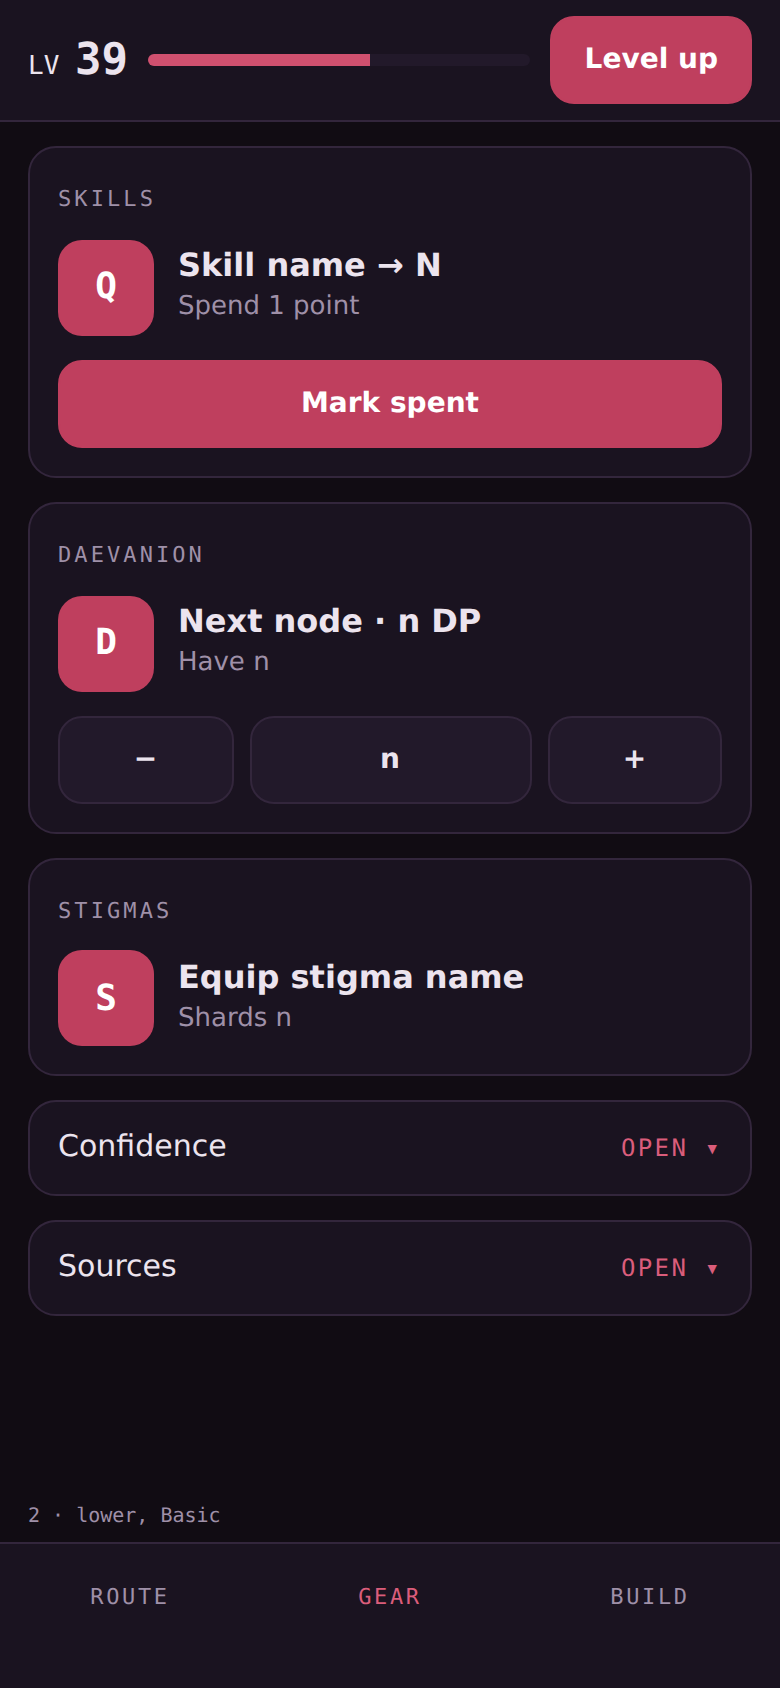
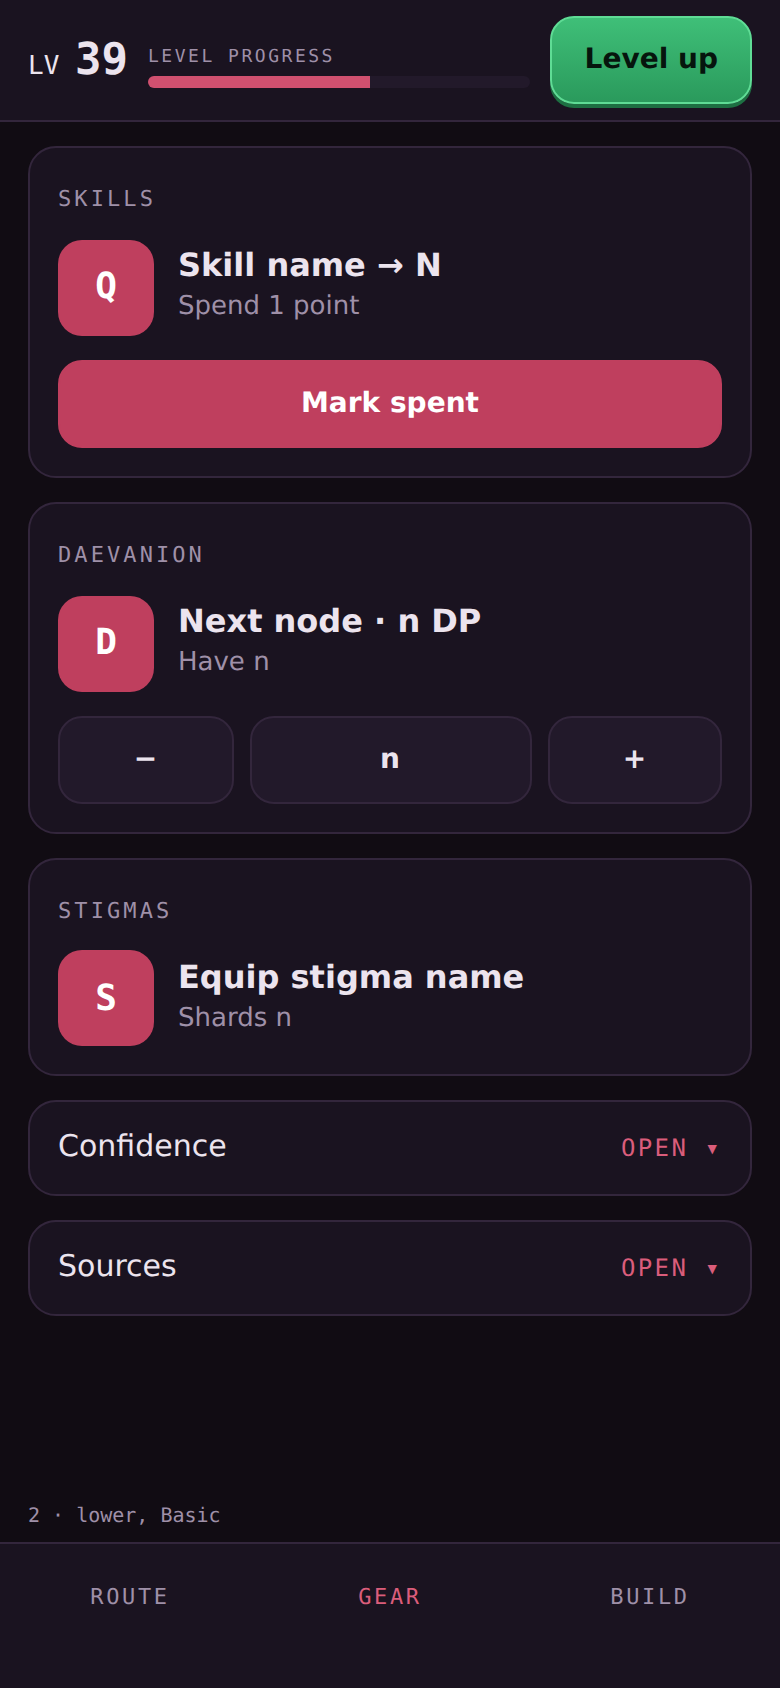
docs: phone layout plan fixes from PR #87 review
DOM order and patch E re-sized as a main.js move; Level up stays green and
lives only in the sticky bar; Progress placed; both-builds statement;
stigma steppers in patch A; patch C trimmed; nits; mockup and after-* shots redone.

Changed region(s): [[0.7077, 0.0, 0.9846, 0.0616], [0.1846, 0.0308, 0.4923, 0.0616]]

diff --git a/docs/design/mockups/phone-layout.html b/docs/design/mockups/phone-layout.html
@@ -12,7 +12,7 @@ body { margin: 0; background: #000; color: var(--fg); font: 15px/1.45 var(--body
 .pad { padding: 0 14px; }
 .mono { font: 500 11px var(--mono); letter-spacing: .14em; text-transform: uppercase; color: var(--muted); }
 h1 { font: 400 22px var(--display); margin: 0; letter-spacing: .04em; }
-/* sticky bar: the level is always in reach (replaces scrolling to the top for -/+ and Level up) */
+/* sticky bar: the level is always in reach (the only Level up on phone widths; Journey's #lvlUpBig is hidden there) */
 .bar { position: sticky; top: 0; z-index: 2; background: var(--panel); border-bottom: 1px solid var(--line); padding: 8px 14px; display: grid; grid-template-columns: auto 1fr auto; gap: 10px; align-items: center; }
 .lv { font: 500 13px var(--mono); }
 .lv b { font-size: 22px; color: var(--fg); }
@@ -20,6 +20,8 @@ h1 { font: 400 22px var(--display); margin: 0; letter-spacing: .04em; }
 .track i { display: block; height: 100%; width: 58%; background: var(--accent); }
 .btn { min-height: 44px; min-width: 44px; border-radius: 12px; border: 1px solid var(--line); background: var(--panel-2); color: var(--fg); font: 600 14px var(--body); padding: 0 16px; display: inline-flex; align-items: center; justify-content: center; }
 .btn.primary { background: var(--accent-fill); border-color: var(--accent-fill); color: #fff; }
+/* Level up = .lvlup-btn, app.css:501 (green gradient, no colour change) */
+.btn.lvup { background: linear-gradient(180deg, #3fbf78, #2a9a5c); border: 1px solid #5fdc95; color: #06150d; font-weight: 700; box-shadow: 0 2px 0 #1d6f42; }
 .seg { display: grid; grid-template-columns: 1fr 1fr; border: 1px solid var(--line); border-radius: 12px; overflow: hidden; margin: 10px 0; }
 .seg .btn { border: 0; border-radius: 0; background: none; color: var(--muted); }
 .seg .on { background: var(--panel-2); color: var(--fg); box-shadow: inset 0 -2px var(--accent); }
@@ -45,20 +47,20 @@ h1 { font: 400 22px var(--display); margin: 0; letter-spacing: .04em; }
 
 <!-- 1. Top of the page: sticky level bar, 44 px mode switch, Next up first -->
 <div class="ph" id="p1"><div class="lbl">1 · top, Basic</div>
-  <div class="bar"><span class="lv">LV <b>39</b></span><span class="track"><i></i></span><button class="btn primary" style="min-height:44px">Level up</button></div>
-  <div class="pad" style="padding-top:12px"><span class="mono">Aion 2 · Asmodian · Assassin</span><h1>Asmodian Assassin Route</h1>
+  <div class="bar"><span class="lv">LV <b>39</b></span><span><span class="mono" style="font-size:9px">Level progress</span><span class="track" style="display:block"><i></i></span></span><button class="btn lvup">Level up</button></div>
+  <div class="pad" style="padding-top:12px"><span class="mono">Aion 2 · Asmodian · Assassin · 1 → 45</span><h1>Asmodian Assassin Route</h1>
     <div class="seg"><span class="btn on">Basic</span><span class="btn">Advanced</span></div></div>
-  <div class="pad"><span class="mono">Next up · 1 of 4</span></div>
   <div class="card first"><div class="row"><span class="num">⛏</span><div><h3>Clear Destruction Archons Armory</h3><p>and others until Lv 40 · 3/10</p></div></div>
-    <div class="actions"><span class="btn">Show</span><span class="btn primary">Mark cleared</span></div></div>
+    <div class="actions"><span class="btn">Show</span></div></div>
   <div class="card"><div class="row"><span class="num" style="background:var(--panel-2);color:var(--muted)">2</span><div><h3>Regional quests</h3><p>Eastern Gribade Highland · 2 open</p></div></div></div>
   <div class="card fold" style="margin-top:12px"><span>Journey · Lv 39 → 40</span><span class="more">Open ▾</span></div>
+  <div class="card fold"><span>Progress</span><span class="more">Open ▾</span></div>
   <div class="card fold"><span>Dungeons &amp; Strongholds</span><span class="more">Open ▾</span></div>
   <div class="tabs"><span class="on">Route</span><span>Gear</span><span>Build</span></div></div>
 
 <!-- 2. Further down: gear cards as uniform folds, 44+ px rows -->
 <div class="ph" id="p2"><div class="lbl">2 · lower, Basic</div>
-  <div class="bar"><span class="lv">LV <b>39</b></span><span class="track"><i></i></span><button class="btn primary">Level up</button></div>
+  <div class="bar"><span class="lv">LV <b>39</b></span><span><span class="mono" style="font-size:9px">Level progress</span><span class="track" style="display:block"><i></i></span></span><button class="btn lvup">Level up</button></div>
   <div class="card"><span class="mono">Skills</span><div class="row" style="margin-top:10px"><span class="num">Q</span><div><h3>Skill name → N</h3><p>Spend 1 point</p></div></div><div class="actions"><span class="btn primary">Mark spent</span></div></div>
   <div class="card"><span class="mono">Daevanion</span><div class="row" style="margin-top:10px"><span class="num">D</span><div><h3>Next node · n DP</h3><p>Have n</p></div></div><div class="actions"><span class="btn">−</span><span class="btn" style="flex:2">n</span><span class="btn">+</span></div></div>
   <div class="card"><span class="mono">Stigmas</span><div class="row" style="margin-top:10px"><span class="num">S</span><div><h3>Equip stigma name</h3><p>Shards n</p></div></div></div>
@@ -68,7 +70,7 @@ h1 { font: 400 22px var(--display); margin: 0; letter-spacing: .04em; }
 
 <!-- 3. Build as a bottom sheet from the tab bar -->
 <div class="ph" id="p3"><div class="lbl">3 · Build sheet</div>
-  <div class="bar"><span class="lv">LV <b>39</b></span><span class="track"><i></i></span><button class="btn primary">Level up</button></div>
+  <div class="bar"><span class="lv">LV <b>39</b></span><span><span class="mono" style="font-size:9px">Level progress</span><span class="track" style="display:block"><i></i></span></span><button class="btn lvup">Level up</button></div>
   <div class="scrim"></div>
   <div class="sheet"><div class="grab"></div><div class="row" style="grid-template-columns:1fr auto"><h3 style="font:400 18px var(--display)">Stat priority</h3><span class="btn">Close</span></div>
     <div class="prio"><span>Stat 1</span><span class="mono">value</span></div>

diff --git a/docs/design/phone-layout.md b/docs/design/phone-layout.md
@@ -9,7 +9,7 @@ The mockup text is placeholder, not game data.
 
 ## 1. Method
 
-- `npm run build` at v0.2.3 (`6c2196c1a203`), served from `dist/` with `scripts/serve.mjs`.
+- `npm run build` at v0.2.3 (commit `2960f77`), served from `dist/` with `scripts/serve.mjs`.
 - Chromium via Playwright, 390×844, DPR 2, `isMobile` + `hasTouch` (so `pointer: coarse` matches).
 - Save: `tests/fixtures/fixture-user-2026-10-14-lv39.json` (the owner's Lv 39 save) with `mode` set to `basic` or `advanced`.
 - Shots: `mockups/phone/before-{basic,advanced}-full.png` plus one per card (`header.top`, Progress, Journey, Dungeons &
@@ -29,9 +29,10 @@ The mockup text is placeholder, not game data.
 | Page height | 3,300 px | 7,102 px |
 | Next up starts at | 2,118 px (2.5 screens) | 3,738 px (4.4 screens) |
 
-`aside.rail` (Progress, Journey, Dungeons & Strongholds, The map, Skills, Daevanion, Stigmas) is stacked before `#main`
-(Next up, Milestones, Route rules), then Confidence and Sources. The thing the user opens the site for is below seven
-cards. Same as P1-1, slightly better than in the 2026-10-13 audit (2,210 / 4,240 px). In Advanced the Journey card alone
+`aside.rail` holds Progress, Journey, Dungeons & Strongholds and The map (`src/index.html:46-116`). `#main` starts with
+`.top-grid` (Skills, Daevanion, Stigmas; `src/index.html:118-170`), and only then comes Next up (`#nowStar`), then
+Milestones and Route rules; Confidence and Sources close the page. The thing the user opens the site for is below
+seven cards in Advanced and six in Basic (The map is hidden by `body.basic`, `app.css:996`). Same as P1-1, slightly better than in the 2026-10-13 audit (2,210 / 4,240 px). In Advanced the Journey card alone
 is 963 px (the current story step with its objectives); it pushes everything else down.
 
 ### 2.2 Tap targets under 44 px
@@ -47,7 +48,8 @@ Counts are elements in the page, 390 px.
 | `.tip` "i" | 17×17 | 4 / 19 | glyph in a fixed box |
 | `a.amap` map pin | 26×26 | 5 / 5 | |
 | Sync fields (`sync0`…) | 52×26 | 0 / 15 | |
-| Level −/+ in Journey | visible buttons about 38 px | Advanced | the probe also lists 6 buttons named "Level down" at 14×18 px; I did not identify which control that is |
+| Level −/+ in Journey | visible buttons about 38 px | Advanced | |
+| Stigma slot steppers (`.st-lvctl`, built at `src/main.js:1479`, Stigmas › Slots) | 14×18 | the 6 "Level down" buttons in the probe | the smallest targets on the page; their `aria-label`s are "Level down" / "Level up", the same names as the real level controls |
 | Basic / Advanced switch | about 25 px tall | 1 | the most-used control on the page |
 | Filter icon and × in Journey | about 20 px | | |
 
@@ -79,32 +81,46 @@ is that re-run plus the `flex-wrap` fix.
 - Basic / Advanced pill sits between the eyebrow and the page title; the title wraps to two lines.
 - Journey (Advanced): Level −/+, slider and Level up are inside the card at the top of the page, so on a long scroll
   the level controls are out of reach. Objectives are a full-width stack of 6+ rows with 20 px checkboxes.
-- Cards are uniform in padding (14 px) and corner radius; that part is already good.
+- Cards are uniform in padding (16 px, `app.css:63`) and corner radius (12 px); that part is already good.
 
 ## 3. Proposal
 
 Tokens: the repo has no `docs/design-system.md` (HANDOFF and ROADMAP refer to it). The tokens are the `:root` block of
-`src/styles/app.css`: `--bg --panel --panel-2 --line --fg --muted --accent --accent-text --accent-fill --good --warn`
-and the three font stacks. The mockup uses only those; it adds no colour.
+`src/styles/app.css`: `--bg --panel --panel-2 --line --fg --muted --accent --accent-soft --accent-text --accent-fill
+--good --warn` and the three font stacks. The mockup uses those, plus the raw Level up greens from `.lvlup-btn`
+(`app.css:501`) and `#fff` / `#000` / `#000a` for text on fills, the page backdrop and the scrim. No new brand colour.
 
-1. **Order: Next up first.** ≤ 860 px: header, (sticky level bar), Next up, Journey (folded in Basic), Milestones,
-   Skills / Daevanion / Stigmas, Dungeons & Strongholds, The map, Route rules, Confidence, Sources. Next up lands at
-   about 400 px instead of 2,118.
-2. **Sticky level bar**: `LV 39`, progress, **Level up** (44 px, `--accent-fill`, as now). Replaces scrolling to Journey.
-   Level −/+ and the slider stay in Journey (Advanced); the intent from CLAUDE.md, that the level changes only through
-   Level up / − / + / slider, is unchanged.
+**Both builds.** Every patch below applies to the site and to the claude.ai artifact build (`dist-artifact`) alike: no
+web-only CSS and no web-only `<head>` dependency. The artifact runs in an iframe without `viewport-fit=cover`, so
+`env(safe-area-inset-bottom)` resolves to 0 there; the tab bar and sheet must look right with that fallback (fixed
+padding, safe-area as an addition only). F and H are checked at 390 px in the artifact build as well as the site build.
+The header (brand row, eyebrow "· 1 → 45") and the footer with "unofficial … not affiliated with or endorsed by NCSoft"
+(`tests/site.js`) are unchanged; the mockup omits them for space.
+
+1. **Order: Next up first.** ≤ 860 px: header, sticky level bar, Next up, Milestones, Journey (folded in Basic),
+   Progress, Skills / Daevanion / Stigmas, Dungeons & Strongholds, The map (Advanced), Route rules, Confidence, Sources.
+   Next up lands at about 400 px instead of 2,118. The Progress card (ring plus Quests / Dungeons / Strongholds rows,
+   overall progress) is kept as is and moves to just after Journey; the bar does not replace it.
+2. **Sticky level bar**: `LV 39`, a track labelled "Level progress" (progress within the current level, not the
+   overall Progress card), and **Level up** (44 px). Level up keeps its current green gradient (`.lvlup-btn`,
+   `app.css:501`); no colour change. On phone widths the button lives in the bar only and Journey's `#lvlUpBig`
+   (`src/index.html:69`) is hidden at that width, so exactly one Level up button is on screen at any time. Level −/+ and
+   the slider stay in Journey (Advanced); the intent from CLAUDE.md, that the level changes only through Level up / − /
+   + / slider, is unchanged.
 3. **44 px targets** on touch: Basic/Advanced switch as two 44 px halves; −/+ steppers 44×44; `.q-inl` and "i" get a
    44 px hit area through the existing `::before { inset: -Npx }` pattern (visual size unchanged); list-row links and
    checkboxes get row-wide labels of at least 44 px; folded cards `min-height: 48px`.
 4. **Next up on phones**: first card full width with the action(s) directly under the text (full-width, 44 px, primary =
-   `--accent-fill`); later cards compact (number tile + title + one line); "1 of N" instead of the nested scroll stack
-   (P1-2).
+   `--accent-fill`; no "Mark cleared" action, Next up has none today); later cards compact (number tile + title + one line); "1 of N" instead of the nested scroll stack
+   (P1-2). In Basic `#nowStar .ns-head` stays hidden (`app.css:1000`), so "1 of N" shows in Advanced only unless the
+   owner wants it in Basic (question below).
 5. **Bottom tab bar** (Route · Gear · Build), 52 px, safe-area padding. Build opens as a bottom sheet with a scrim and
-   grab handle (P2-5; `dvh`, not `vh`), replacing the 19 px side tab with 8.5 px text.
+   grab handle (P2-5; `dvh`, not `vh`), replacing the 19 px side tab. Its text is 11 px under `pointer: coarse` (`app.css:1422`; 8.5 px only with a mouse at
+   ≤ 600 px), so the case is the tab's size and reach, not the type size.
 6. **Folded by default on phones**: Journey (Basic), Dungeons & Strongholds, Confidence, Sources, each a uniform
    48 px summary row ("Open ▾" in `--accent-text`).
 
-Mockup frames (`mockups/phone/after-*.png`, from `phone-layout.html`): `after-top-basic`, `after-lower-basic`,
+Mockup frames (`mockups/phone/after-*.png`, from `phone-layout.html`; Level up is green as in the app): `after-top-basic`, `after-lower-basic`,
 `after-build-sheet`. They are static HTML, not the product; labels and values are placeholders.
 
 ## 4. Patch plan (0.2.6+)
@@ -114,23 +130,29 @@ CSS-only means `src/styles/app.css` (and at most static markup in `src/index.htm
 
 | # | Patch | Files | Serial? | Size | Visible |
 |---|---|---|---|---|---|
-| A | 44 px hit areas on −/+, "i", `.q-inl`, map pins, checkbox rows; Basic/Advanced switch 44 px | CSS | no | S | hit areas no; switch yes |
+| A | 44 px hit areas on −/+, "i", `.q-inl`, map pins, checkbox rows, stigma slot steppers (`.st-lvctl`); Basic/Advanced switch 44 px. The steppers also get distinct `aria-label`s (e.g. "Stigma level down: <name>") at `src/main.js:1479`, a one-line change | CSS + 1 line `main.js` | no | S | hit areas no; switch yes |
 | B | Gap under the area select; locked-row contrast; folded-card `min-height` | CSS | no | S | yes (small) |
-| C | Page-zoom re-run at 195 / 260 / 640 px; `flex-wrap` on `.progress-row`, `.ns-head` if it fails | CSS (+ test) | no | S | yes |
+| C | Re-run page zoom at 195 / 640 px and fix what fails. `flex-wrap` on `.progress-row` (`app.css:71`) and `.ns-head` already exists, and `tests/a11y.js` §8 already asserts no sideways scroll at 260 px; only the 195 / 640 px cases are open | CSS (+ test) | no | S | yes |
 | D | Route rules card home (F11, ROADMAP 0.2.6) | `src/index.html` markup + CSS | no, unless it needs JS to place it | S | yes, owner |
-| E | Card order on phones: Next up first | CSS `order` with `display: contents` on the rail, or a JS move | CSS version no; JS version **`src/main.js`** | M | yes, owner |
-| F | Sticky level bar | `src/index.html` + CSS; **`src/main.js`** if the bar needs its own live level | **yes** | M | yes, owner |
+| E | Card order on phones: Next up first. Skills / Daevanion / Stigmas sit in `#main > .top-grid` and Next up comes after them, while the rail is a separate landmark. CSS `order` would need `display: contents` on `aside.rail`, `main#main` and `.top-grid` together, which flattens both landmarks (why the audit chose a JS move). So: a **`src/main.js`** move | **`src/main.js`** + CSS | **yes**, after 0.3 | M–L | yes, owner |
+| F | Sticky level bar; hides `#lvlUpBig` at phone widths; own live level | `src/index.html` + CSS + **`src/main.js`** | **yes** | M | yes, owner |
 | G | Next up "1 of N" pager and compact later cards | **`src/main.js`** (`renderNow`) | **yes**, after 0.3 | L | yes, owner |
 | H | Bottom tab bar and Build bottom sheet | **`src/main.js`** (drawer code) + CSS | **yes** | M | yes, owner |
 
-Order: A, B, C, D ship as 0.2.6 (all CSS-only). E can follow if done in CSS (needs a check that `display: contents` keeps
-the landmark and tab order; the audit preferred a JS move for that reason). F, G, H touch `src/main.js`
-and the card code that 0.3 rewires, so they wait for 0.3 and then go one at a time in the order F, G, H, each rebased on
-the previous one. Tests: A–E change 390 px layout expectations in `regress` / `e1` (the audit noted this); the
-golden master is unaffected. Run `mig1`, `mig2`, `journey` only for patches that touch `main.js` (F–H).
+Order: B, C, D ship as 0.2.6 (CSS-only), and A with them apart from its one-line `aria-label` change in `main.js`. E, F,
+G, H touch `src/main.js` and the card code that 0.3 rewires, so they wait for 0.3 and then go one at a time in the
+order E, F, G, H, each rebased on the previous one. Tests: A–E change 390 px layout expectations in `regress` / `e1`
+and the 390 px touch probes and 260 px zoom check in `tests/a11y.js` (the audit noted this); the golden master is
+unaffected. Run `mig1`, `mig2`, `journey` for patches that touch `main.js` (A's label change, E–H). F and H are also
+checked at 390 px in the artifact build (see Both builds).
 
 ## 5. Open questions for the owner
 
 - Basic mode: is a Next-up-only first screen what you want, with Journey folded, or should Journey stay open?
 - Tab bar: Route · Gear · Build is a guess; Skills, Daevanion and Stigmas could be a single "Gear" tab or stay in the page flow.
+- Basic mode is essentials only, and this plan adds permanent chrome (sticky bar plus 52 px tab bar). Acceptable? Also:
+  folding Dungeons & Strongholds by default hides a core tick list; folding Journey in Basic also hides − / + / slider,
+  which Basic shows today; should "1 of N" show in Basic?
+- The `before-*` PNGs (about 3.6 MB; `before-advanced-full.png` is 1.3 MB) contain skill, stigma and Daevanion icons
+  inside app screenshots. They are already-approved icons, not new art; OK to commit, or trim?
 - Please check on the iPhone: whole-row tap on Confidence / Sources, and whether any field still zooms on focus.
